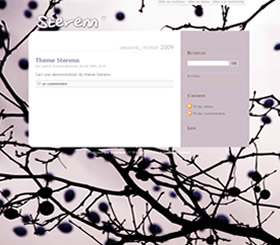
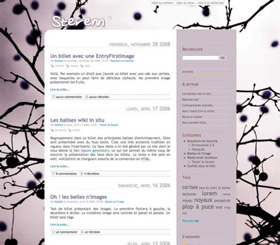
voir changelog
git-svn-id: https://svn.dotclear.net/lab@3362 b35155ea-a742-4b26-8089-0891bb790021

diff --git a/themes/sterenn/style.css b/themes/sterenn/style.css
@@ -65,7 +65,6 @@ pre {
 #top h1 {
 	background: transparent url(img/sterenn.png) no-repeat top left;
 	display: block;
-	/*width: 300px;*/
 	max-height: 70px !important;
   font-family: "Handlee", cursive;
   font-size:5em;
@@ -232,7 +231,7 @@ pre {
 }
 
 #topnav ul {
-	border-bottom: 1px solid #ffd02c;
+	border-bottom: 1px solid #e1d9dd;
 	padding: 4px 0;
 }
 #topnav li {
@@ -259,7 +258,6 @@ pre {
 	display: list-item;
 	margin: 0.1em 0 0 0;
 	padding: 0 0;
-	/*font-weight: bold;*/
 	border: none;
 }
 
@@ -277,7 +275,7 @@ pre {
 	font-weight: normal;
 }
 
-#sidebar img {max-width:200px;}
+#sidebar img {max-width:100%;}
 
 #sidebar .tags ul {
 	border-top: none;
@@ -323,7 +321,6 @@ ul.tags li {
 /* Main content styles
 -------------------------------------------------------- */
 h1{
-	/*margin-left: 20px;*/
 }
 
 h2, h3, h4 {
@@ -370,6 +367,7 @@ h4 {
 .post {
 	margin: 0 0 2em 0;
 }
+.post embed, .post iframe {max-width:100%;}
 .post-title {
 	color:#8377A5;
 	font-size:1.8em;
@@ -438,9 +436,7 @@ a.feed {
 /* Post content
 -------------------------------------------------------- */
 .post-content h3{
-	border-bottom: 1px dotted #AAA;
-	margin-top: 30px;
-	margin-bottom: 10px;
+	margin: 0;
 	color: #888;
 	font-size: 13pt;
 	padding: 4px;
@@ -450,8 +446,10 @@ a.feed {
 	font-size: 1.2em;
 	text-align: justify;
 	color: #666;
+	clear:both;
 }
-.post-content acronym, .post-excerpt acronym {
+.post-content acronym, .post-excerpt acronym,
+.post-content abbr, .post-excerpt abbr {
 	cursor: help;
 	border-bottom: 1px dotted #666;
 }
@@ -462,8 +460,8 @@ a.feed {
 	border: 1px solid #E0E0E0;
 	background-color: #F0F0F5;
 }
-.post-excerpt p img, .post-content p img {
-  max-width:500px;
+.post-excerpt img, .post-content img {
+  max-width:100%;
 }
 .post-content ul, .post-excerpt ul {
 	margin: 0 0 0.5em 0;
@@ -709,8 +707,6 @@ a.feed {
 }
 
 .pagination{
-  /*width: 500px;
-  margin: 20px;*/
   border: 1px solid #EFEFEF;
   padding: 5px;
   background-color: #FAFAFA;
@@ -721,5 +717,5 @@ a.feed {
 }
 
 .dc-category #content-info p img {
-  max-width:500px;
+  max-width:100%;
 }

diff --git a/themes/sterenn/tpl/_footer.html b/themes/sterenn/tpl/_footer.html
@@ -1,5 +1,5 @@
-<div id="footer">
-  <p>{{tpl:SysPoweredBy}} // thème réalisé par <a href="http://www.geeek.org">Ludovic Toinel</a></p>
+<div id="footer" role="banner">
+  <p>{{tpl:SysPoweredBy}} // {{tpl:lang Theme by}} <a href="http://www.geeek.org">Ludovic Toinel</a></p>
 </div>
 
 {{tpl:SysBehavior behavior="publicFooterContent"}}

diff --git a/themes/sterenn/_define.php b/themes/sterenn/_define.php
@@ -12,7 +12,9 @@ if (!defined('DC_RC_PATH')) { return; }
 $this->registerModule(
 	/* Name */				  "Sterenn",
 	/* Description*/		"Le thème d'une étoile bretonne",
-	/* Author */			  "Ludovic Toinel",
-	/* Version */			  '1.1'
+	/* Author */			  "Ludovic Toinel, Pierre Van Glabeke",
+	/* Version */			  '1.2',
+	array(
+		'type'		=>		'theme'
+	)
 );
-?>

diff --git a/themes/sterenn/_public.php b/themes/sterenn/_public.php
@@ -1,0 +1,12 @@
+<?php
+# ***** BEGIN LICENSE BLOCK *****
+#
+# Sterenn
+# Theme by Ludovic Toinel
+# Contributor : Pierre Van Glabeke
+# License: public domain
+#
+# ***** END LICENSE BLOCK *****
+if (!defined('DC_RC_PATH')) { return; }
+
+l10n::set(dirname(__FILE__).'/locales/'.$_lang.'/public');
